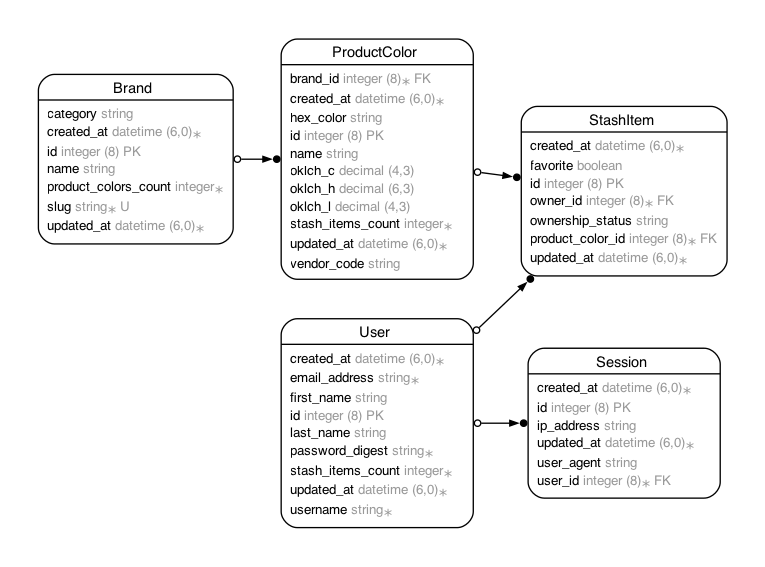
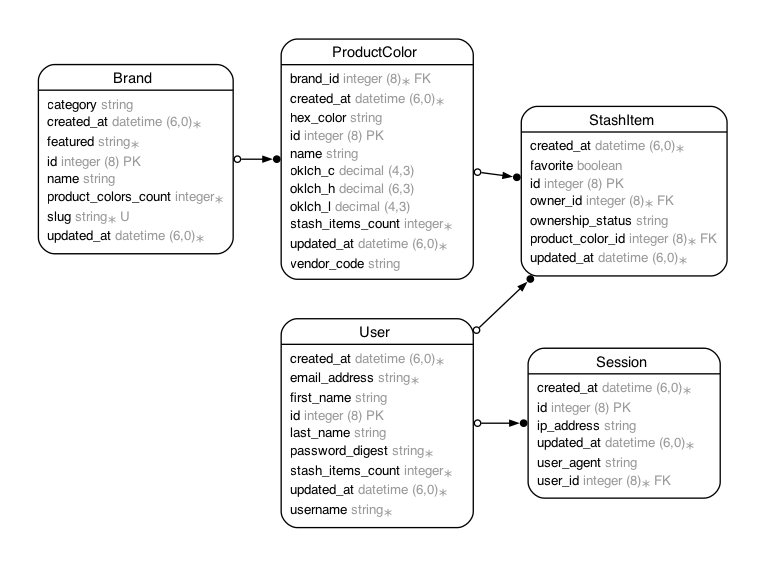
add featured attribute to brands and update featured brand logic

Changed region(s): [[0.0301, 0.0899, 0.3007, 0.4497]]

diff --git a/db/cable_schema.rb b/db/cable_schema.rb
@@ -10,7 +10,7 @@
 #
 # It's strongly recommended that you check this file into your version control system.
 
-ActiveRecord::Schema[8.0].define(version: 2025_11_24_201016) do
+ActiveRecord::Schema[8.0].define(version: 2025_11_26_153644) do
   # These are extensions that must be enabled in order to support this database
   enable_extension "pg_catalog.plpgsql"
 
@@ -21,7 +21,9 @@ ActiveRecord::Schema[8.0].define(version: 2025_11_24_201016) do
     t.integer "product_colors_count", default: 0, null: false
     t.string "slug"
     t.string "category", default: "general"
+    t.string "featured", default: "general", null: false
     t.index ["category"], name: "index_brands_on_category"
+    t.index ["featured"], name: "index_brands_on_featured"
     t.index ["slug"], name: "index_brands_on_slug", unique: true
   end
 

diff --git a/db/cache_schema.rb b/db/cache_schema.rb
@@ -10,7 +10,7 @@
 #
 # It's strongly recommended that you check this file into your version control system.
 
-ActiveRecord::Schema[8.0].define(version: 2025_11_24_201016) do
+ActiveRecord::Schema[8.0].define(version: 2025_11_26_153644) do
   # These are extensions that must be enabled in order to support this database
   enable_extension "pg_catalog.plpgsql"
 
@@ -21,7 +21,9 @@ ActiveRecord::Schema[8.0].define(version: 2025_11_24_201016) do
     t.integer "product_colors_count", default: 0, null: false
     t.string "slug"
     t.string "category", default: "general"
+    t.string "featured", default: "general", null: false
     t.index ["category"], name: "index_brands_on_category"
+    t.index ["featured"], name: "index_brands_on_featured"
     t.index ["slug"], name: "index_brands_on_slug", unique: true
   end
 

diff --git a/db/queue_schema.rb b/db/queue_schema.rb
@@ -10,7 +10,7 @@
 #
 # It's strongly recommended that you check this file into your version control system.
 
-ActiveRecord::Schema[8.0].define(version: 2025_11_24_201016) do
+ActiveRecord::Schema[8.0].define(version: 2025_11_26_153644) do
   # These are extensions that must be enabled in order to support this database
   enable_extension "pg_catalog.plpgsql"
 
@@ -21,7 +21,9 @@ ActiveRecord::Schema[8.0].define(version: 2025_11_24_201016) do
     t.integer "product_colors_count", default: 0, null: false
     t.string "slug"
     t.string "category", default: "general"
+    t.string "featured", default: "general", null: false
     t.index ["category"], name: "index_brands_on_category"
+    t.index ["featured"], name: "index_brands_on_featured"
     t.index ["slug"], name: "index_brands_on_slug", unique: true
   end
 

diff --git a/db/schema.rb b/db/schema.rb
@@ -10,7 +10,7 @@
 #
 # It's strongly recommended that you check this file into your version control system.
 
-ActiveRecord::Schema[8.0].define(version: 2025_11_24_201016) do
+ActiveRecord::Schema[8.0].define(version: 2025_11_26_153644) do
   # These are extensions that must be enabled in order to support this database
   enable_extension "pg_catalog.plpgsql"
 
@@ -21,7 +21,9 @@ ActiveRecord::Schema[8.0].define(version: 2025_11_24_201016) do
     t.integer "product_colors_count", default: 0, null: false
     t.string "slug"
     t.string "category", default: "general"
+    t.string "featured", default: "general", null: false
     t.index ["category"], name: "index_brands_on_category"
+    t.index ["featured"], name: "index_brands_on_featured"
     t.index ["slug"], name: "index_brands_on_slug", unique: true
   end
 

diff --git a/app/models/brand.rb b/app/models/brand.rb
@@ -4,6 +4,7 @@
 #
 #  id                   :bigint           not null, primary key
 #  category             :string           default(NULL)
+#  featured             :string           default("general"), not null
 #  name                 :string
 #  product_colors_count :integer          default(0), not null
 #  slug                 :string
@@ -13,12 +14,14 @@
 # Indexes
 #
 #  index_brands_on_category  (category)
+#  index_brands_on_featured  (featured)
 #  index_brands_on_slug      (slug) UNIQUE
 #
 class Brand < ApplicationRecord
   has_many :product_colors, dependent: :destroy
 
   enum :category, { thread: "thread", fabric: "fabric" }
+  enum :featured, { main: "main", secondary: "secondary", general: "general" }
 
   validates :slug, presence: true, uniqueness: true
 end

diff --git a/app/controllers/color_libraries_controller.rb b/app/controllers/color_libraries_controller.rb
@@ -3,7 +3,7 @@ class ColorLibrariesController < ApplicationController
   def index
     @categories = Brand.categories.keys
     @brands_by_category = Brand.all.group_by(&:category)
-    @featured = Brand.find_by(name: "DMC")
+    @featured = Brand.main.first
     @featured_colors = @featured.product_colors.order(:id)
     @stashed_color_ids = Current.user.stash_items.pluck(:product_color_id).to_set
   end

diff --git a/db/migrate/20251126153644_add_featured_to_brands.rb b/db/migrate/20251126153644_add_featured_to_brands.rb
@@ -1,0 +1,6 @@
+class AddFeaturedToBrands < ActiveRecord::Migration[8.0]
+  def change
+    add_column :brands, :featured, :string, default: "general", null: false
+    add_index :brands, :featured
+  end
+end
